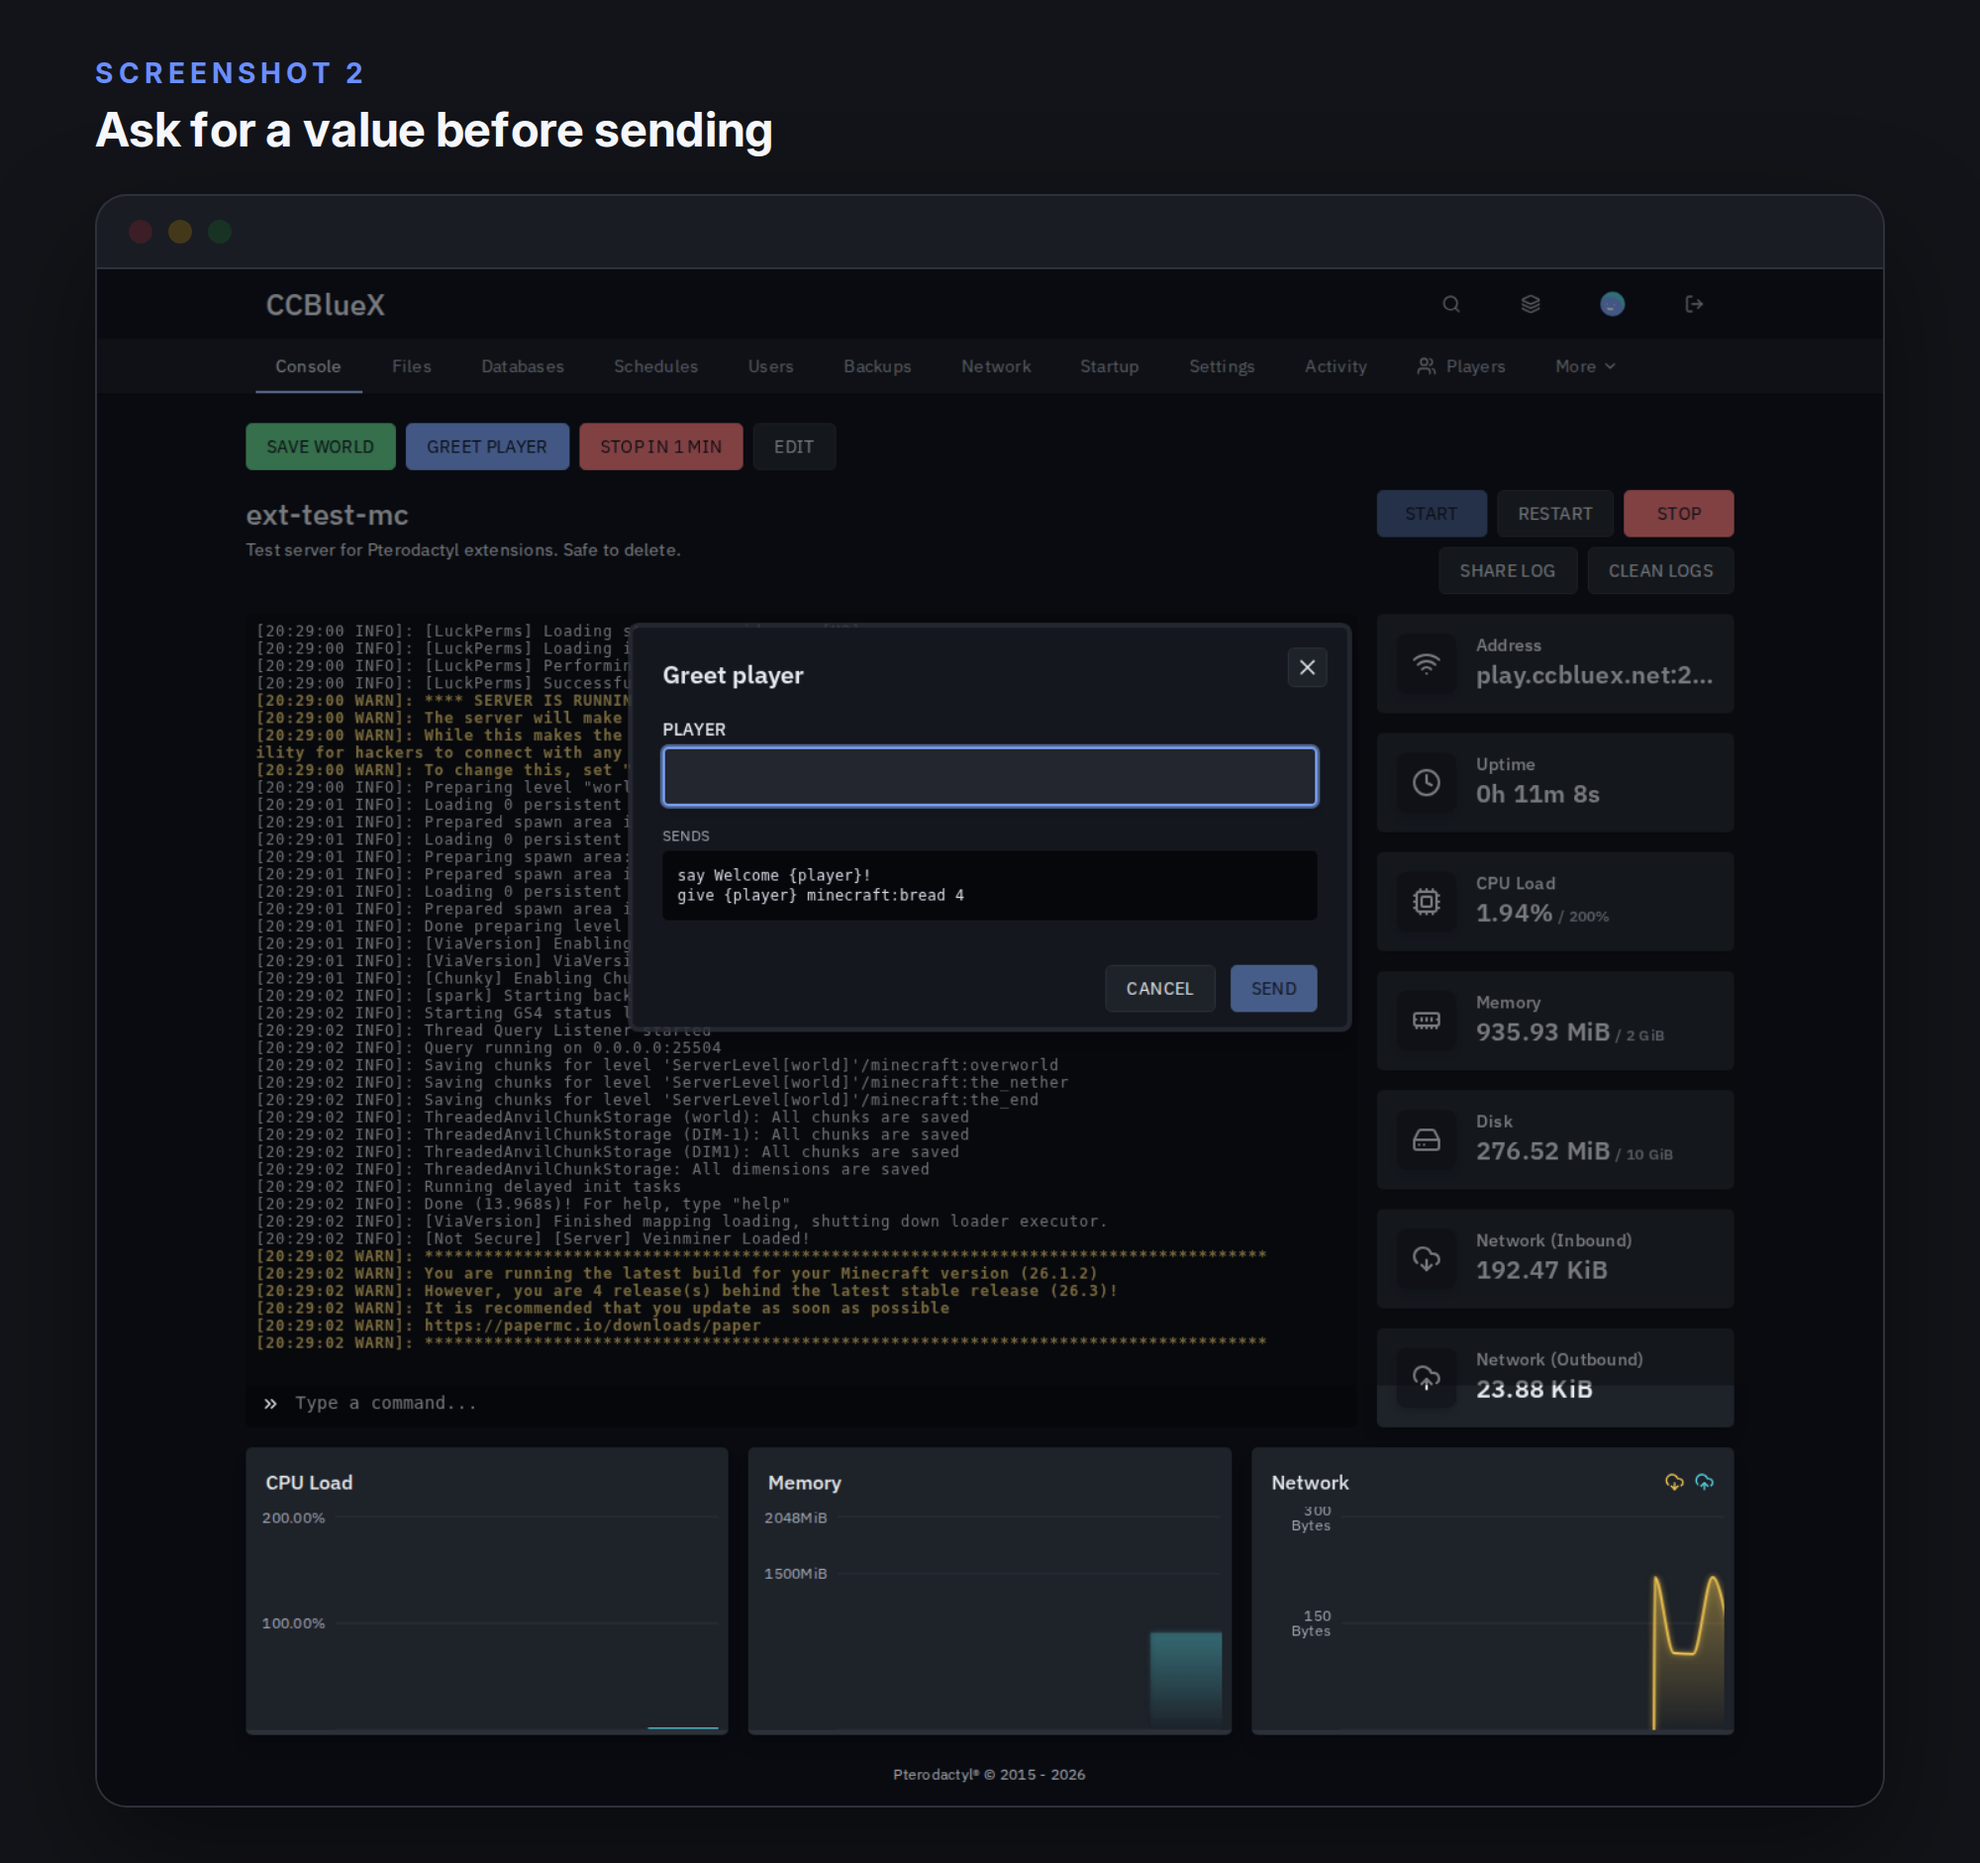
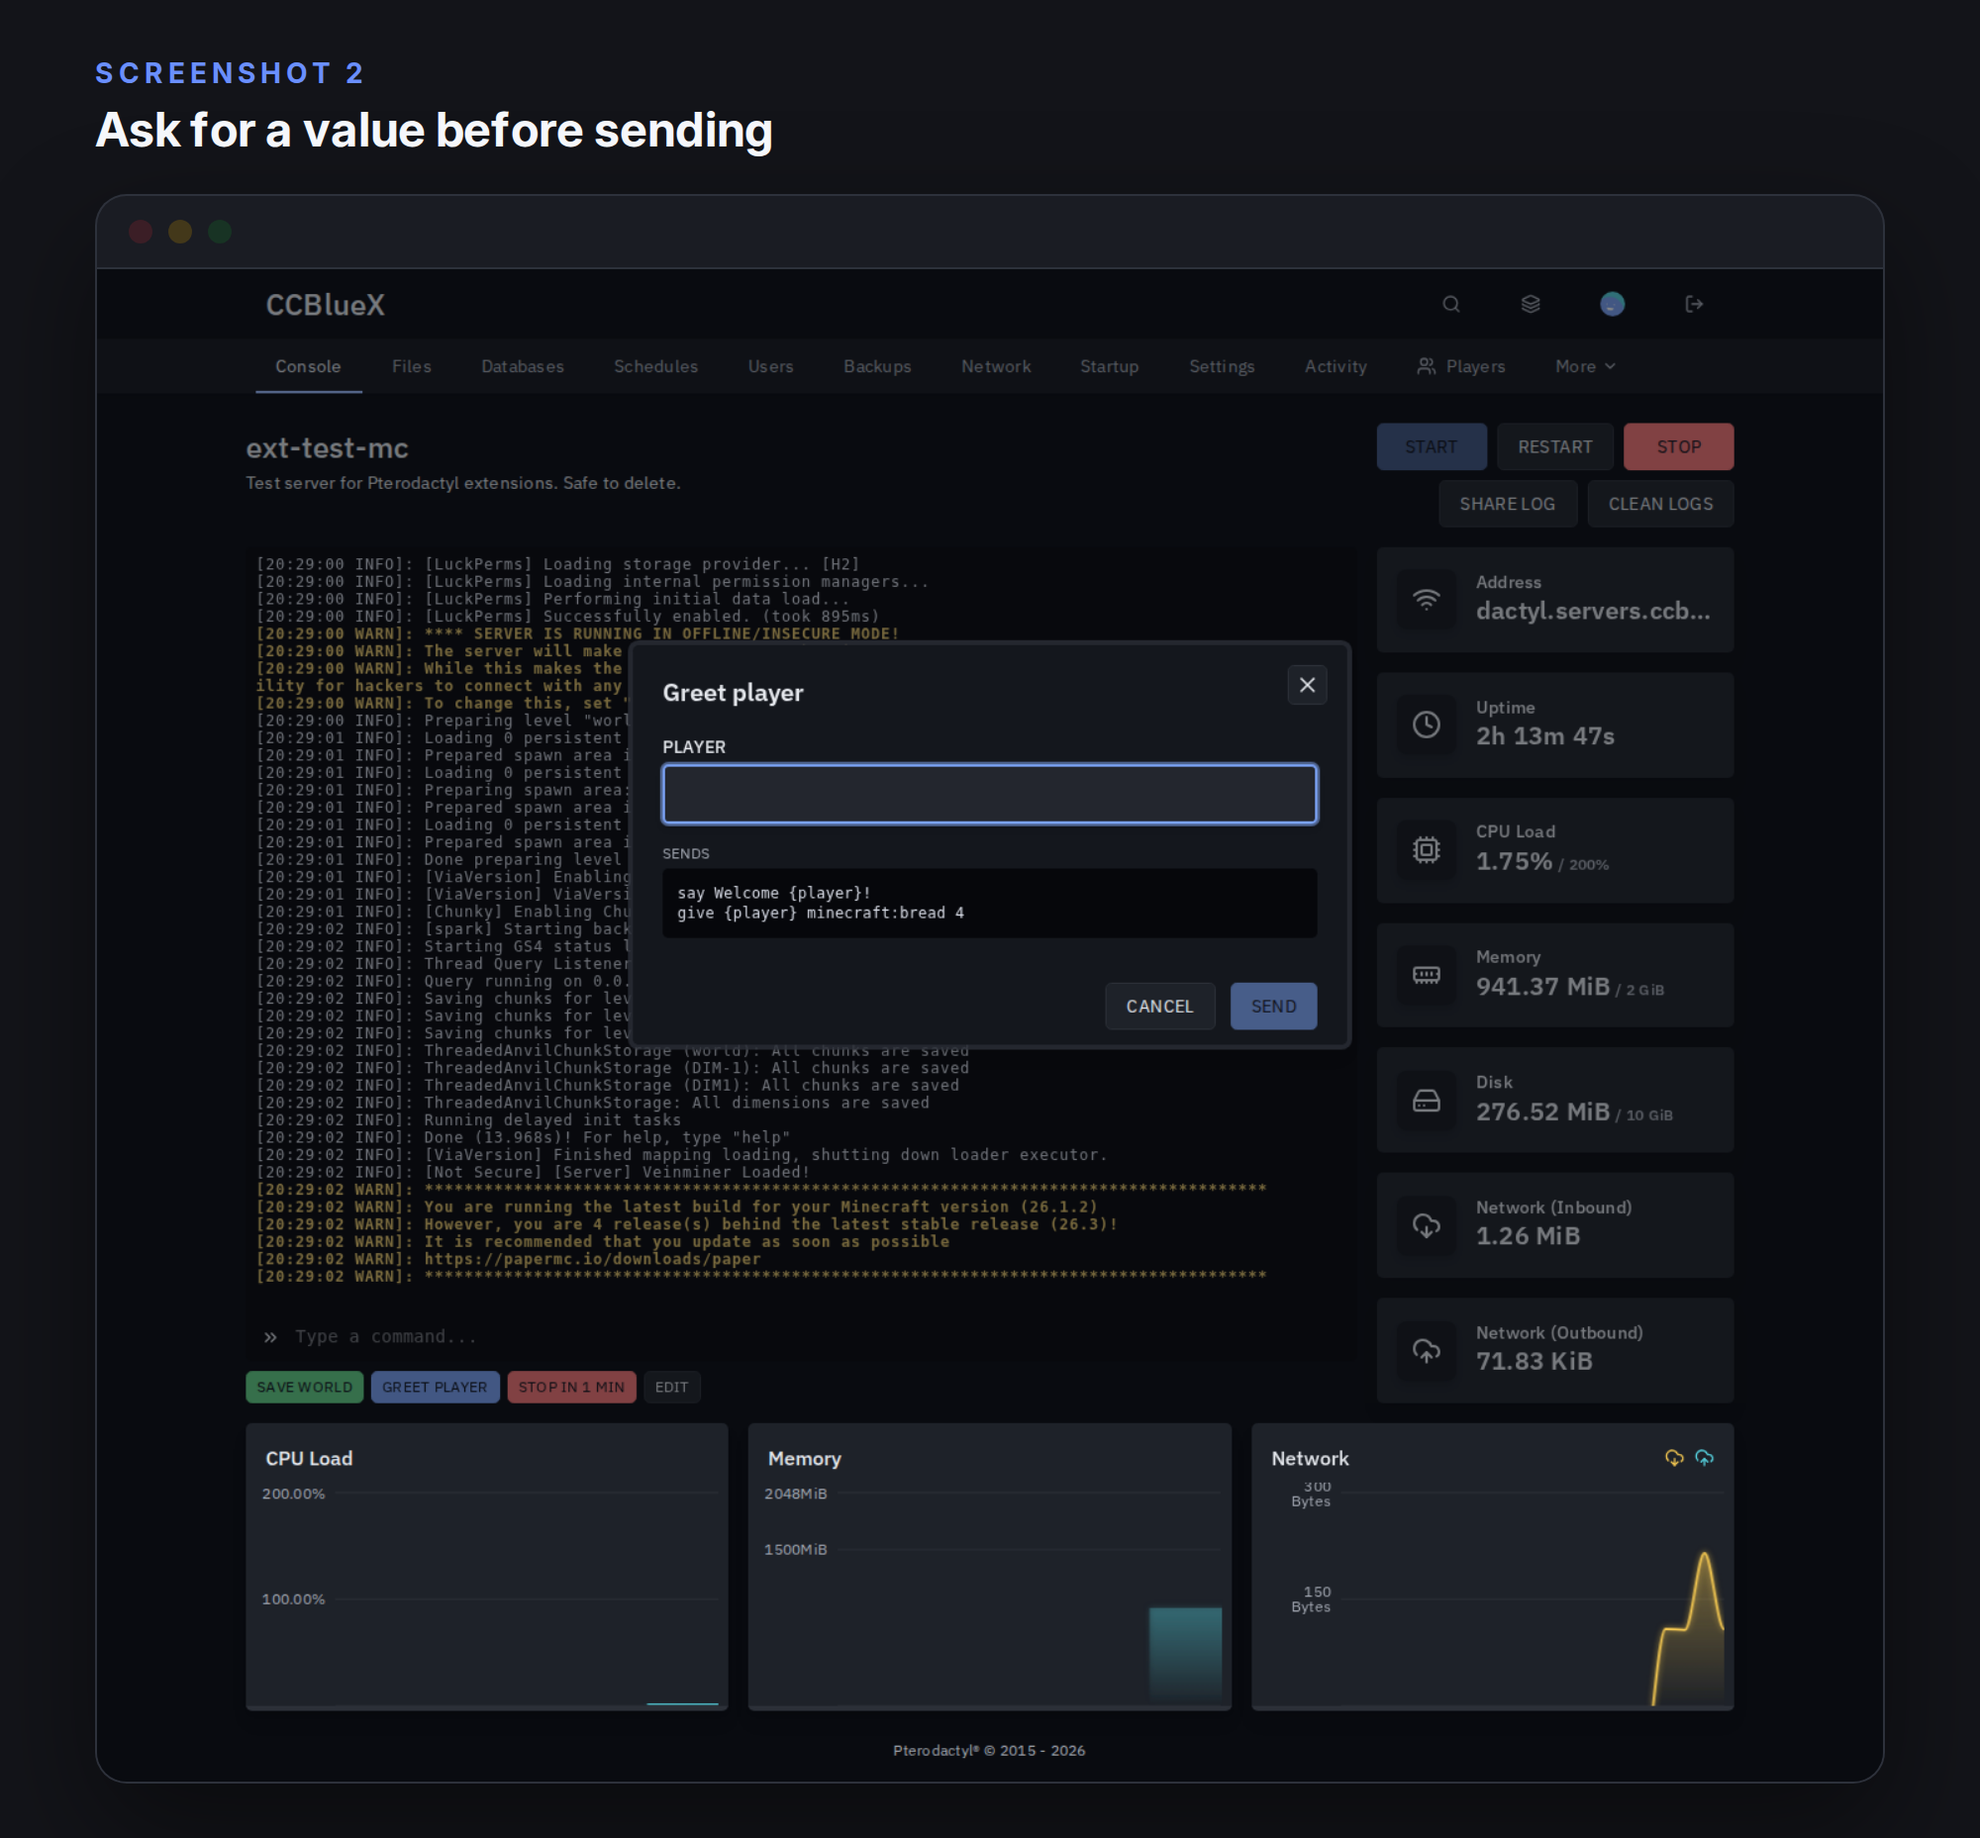
feat: show console buttons below the command input
The panel has no slot there, so the row is portalled below the input and falls back to above the console.

diff --git a/src/client/components/ConsoleButtons.tsx b/src/client/components/ConsoleButtons.tsx
@@ -1,10 +1,12 @@
 import { useState } from 'react';
+import { createPortal } from 'react-dom';
 import { useMutation, useQuery, useQueryClient } from '@tanstack/react-query';
 import { Button, Dialog, Input, Label, httpErrorToHuman, toast, type SdkServer } from '@pterodactyl/sdk';
 import { deleteButton, getButtons, keys, runButton, saveButton, type ButtonInput, type QuickButton, type ServerButtons } from '../api';
 import ButtonDialog from './ButtonDialog';
+import { useSpotBelowConsoleInput } from '../lib/consoleInput';
 
-/** The button row above the console. */
+/** The button row below the console input, or above the console when there is no input. */
 export default function ConsoleButtons({ data: server }: { data: SdkServer }) {
     const id = server.attributes.identifier;
     const queryClient = useQueryClient();
@@ -13,6 +15,7 @@ export default function ConsoleButtons({ data: server }: { data: SdkServer }) {
     const [values, setValues] = useState<Record<string, string>>({});
     const [managing, setManaging] = useState(false);
     const [editing, setEditing] = useState<QuickButton | 'new' | null>(null);
+    const spot = useSpotBelowConsoleInput();
     const onError = (error: unknown) => toast.error(httpErrorToHuman(error));
     const update = (result: ServerButtons) => queryClient.setQueryData(keys.server(id), result);
 
@@ -38,8 +41,8 @@ export default function ConsoleButtons({ data: server }: { data: SdkServer }) {
     };
     const own = buttons.data.buttons.filter((button) => !button.global);
 
-    return (
-        <div className='qcmd:mb-3 qcmd:flex qcmd:flex-wrap qcmd:items-center qcmd:gap-1.5'>
+    const row = (
+        <div className={`${spot ? 'qcmd:mt-2' : 'qcmd:mb-3'} qcmd:flex qcmd:flex-wrap qcmd:items-center qcmd:gap-1.5`}>
             {buttons.data.buttons.map((button) => (
                 <Button key={button.id} size='xsmall' color={button.color} isSecondary={button.color === 'grey'} disabled={running.isPending} onClick={() => click(button)} title={button.commands.join('\n')}>
                     {button.label}
@@ -130,4 +133,6 @@ export default function ConsoleButtons({ data: server }: { data: SdkServer }) {
             )}
         </div>
     );
+
+    return spot ? createPortal(row, spot) : row;
 }

diff --git a/src/client/components/ConsoleButtons.spec.tsx b/src/client/components/ConsoleButtons.spec.tsx
@@ -26,3 +26,18 @@ test('sends plain buttons at once and asks for placeholder values first', async 
     expect(screen.queryByRole('button', { name: 'Edit' })).toBeNull();
     host.dispose();
 });
+
+test('moves the row directly below the console input', async () => {
+    vi.mocked(api.getButtons).mockResolvedValue({ buttons: [button(1, 'Save', ['save-all'])], can_manage: false });
+    const console = document.createElement('div');
+    console.innerHTML = '<div id="input-row"><input aria-label="Console command input." /></div><div id="after"></div>';
+    document.body.append(console);
+    const server = createTestServer({ owner: false, permissions: ['control.console'] });
+    const host = createExtensionTestHost({ extensionId: 'quick-commands', prefix: 'qcmd', server });
+    render(<ConsoleButtons data={server} />, { wrapper: host.Wrapper });
+
+    const save = await screen.findByRole('button', { name: 'Save' });
+    expect(document.getElementById('input-row')!.nextElementSibling!.contains(save)).toBe(true);
+    console.remove();
+    host.dispose();
+});

diff --git a/src/client/lib/consoleInput.ts b/src/client/lib/consoleInput.ts
@@ -1,0 +1,34 @@
+import { useEffect, useState } from 'react';
+
+const INPUT = 'input[aria-label="Console command input."]';
+
+/** A node directly below the panel's console input (the panel has no slot there), or null while there is no input. */
+export function useSpotBelowConsoleInput(): HTMLElement | null {
+    const [spot] = useState(() => document.createElement('div'));
+    const [placed, setPlaced] = useState(false);
+
+    useEffect(() => {
+        const place = () => {
+            const row = document.querySelector(INPUT)?.parentElement;
+
+            if (!row) {
+                spot.remove();
+            } else if (row.nextSibling !== spot) {
+                row.after(spot);
+            }
+
+            setPlaced(Boolean(row));
+        };
+
+        place();
+        const observer = new MutationObserver(place);
+        observer.observe(document.body, { childList: true, subtree: true });
+
+        return () => {
+            observer.disconnect();
+            spot.remove();
+        };
+    }, [spot]);
+
+    return placed ? spot : null;
+}

diff --git a/README.md b/README.md
@@ -5,7 +5,7 @@
 [![Pterodactyl](https://img.shields.io/badge/Pterodactyl-2.0-0e4688?style=flat-square)](https://pterodactyl.io)
 [![License](https://img.shields.io/github/license/CCBlueX/Pterodactyl-Extension-Quick-Commands?style=flat-square)](LICENSE)
 
-One-click buttons above the console for the commands you send every day. Works with every game.
+One-click buttons right below the console input for the commands you send every day. Works with every game.
 
 ![Console buttons](docs/screenshots/console.png)
 
@@ -13,7 +13,7 @@ One-click buttons above the console for the commands you send every day. Works w
 
 1. Download `quick-commands-<version>.pteroext` from the [latest release](https://github.com/CCBlueX/Pterodactyl-Extension-Quick-Commands/releases/latest).
 2. Install and enable it under **Admin → Extensions**.
-3. Add buttons under **Admin → Quick Commands**, or with **Edit** above a server's console.
+3. Add buttons under **Admin → Quick Commands**, or with **Edit** below a server's console input.
 
 ## Features
 
